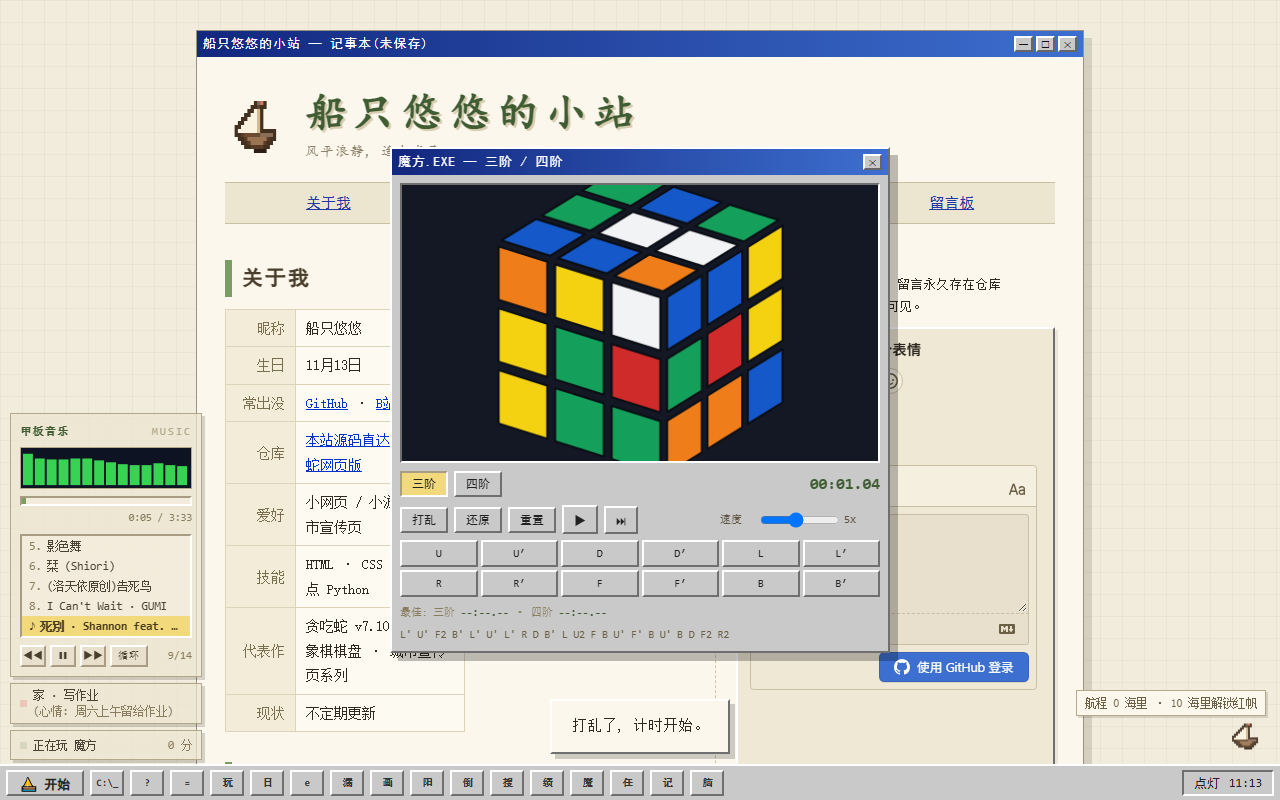
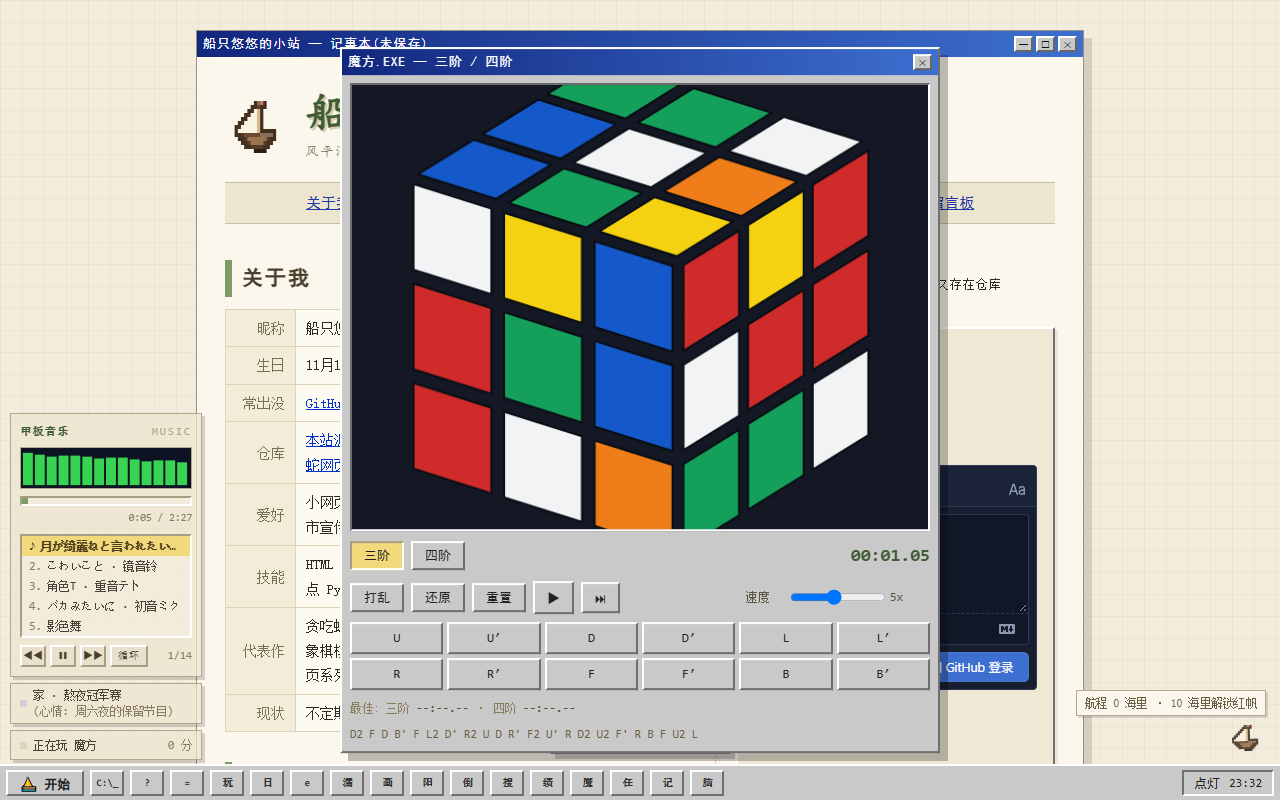
魔方窗口放大一圈: 600 宽、画布跟着长高, 按钮和成绩都看得清了

diff --git a/index.html b/index.html
@@ -1216,28 +1216,28 @@
   body.night .gd-foot{color:#55618a}
 
   /* ---------- 魔方.EXE: 三阶/四阶 建模还原 ---------- */
-  #cubeWin{position:fixed; left:50%; top:50%; transform:translate(-50%,-50%); z-index:260; width:min(500px,94vw);
+  #cubeWin{position:fixed; left:50%; top:50%; transform:translate(-50%,-50%); z-index:260; width:min(600px,94vw);
     display:none; background:#c9c9c9; border:2px solid; border-color:#fff #6f6f6f #6f6f6f #fff; box-shadow:8px 8px 0 rgba(0,0,0,.25)}
   #cubeWin.open{display:block}
   #cubeWin .titlebar{cursor:move}
   .cb-body{padding:8px}
-  #cbCanvas{display:block; width:100%; height:280px; background:#141824; border:2px solid; border-color:#6f6f6f #fff #fff #6f6f6f; cursor:grab}
+  #cbCanvas{display:block; width:100%; height:clamp(300px,56vh,460px); background:#141824; border:2px solid; border-color:#6f6f6f #fff #fff #6f6f6f; cursor:grab}
   #cbCanvas:active{cursor:grabbing}
-  .cb-row{display:flex; align-items:center; gap:6px; margin-top:7px; flex-wrap:wrap}
+  .cb-row{display:flex; align-items:center; gap:7px; margin-top:9px; flex-wrap:wrap}
   .cb-row button, .cb-mv button{background:#c9c9c9; border:2px solid; border-color:#fff #6f6f6f #6f6f6f #fff;
-    padding:4px 10px; font-family:"SimHei","黑体",sans-serif; font-size:12px; cursor:pointer; color:#222}
+    padding:5px 12px; font-family:"SimHei","黑体",sans-serif; font-size:13px; cursor:pointer; color:#222}
   .cb-row button:active, .cb-mv button:active{border-color:#6f6f6f #fff #fff #6f6f6f}
   .cb-row button.on{background:#f2d97c; border-color:#a89d84 #fff #fff #a89d84}
   .cb-row button:disabled{color:#999; cursor:default}
-  .cb-timer{font-family:Consolas,monospace; font-size:16px; color:#3f5c33; font-weight:bold; margin-left:auto; min-width:80px; text-align:right}
-  .cb-mv{display:grid; grid-template-columns:repeat(6,1fr); gap:3px; margin-top:6px}
-  .cb-mv button{padding:5px 2px; font-family:Consolas,monospace; font-size:11px; text-align:center}
-  .cb-best{font-size:11px; color:#8a7d5f; margin-top:6px}
+  .cb-timer{font-family:Consolas,monospace; font-size:18px; color:#3f5c33; font-weight:bold; margin-left:auto; min-width:92px; text-align:right}
+  .cb-mv{display:grid; grid-template-columns:repeat(6,1fr); gap:4px; margin-top:8px}
+  .cb-mv button{padding:7px 2px; font-family:Consolas,monospace; font-size:12.5px; text-align:center}
+  .cb-best{font-size:12px; color:#8a7d5f; margin-top:8px}
   .cb-best b{color:#3f5c33; font-family:Consolas,monospace}
   .cb-spd{display:flex; align-items:center; gap:4px; margin-left:auto}
-  .cb-spd input{width:80px}
-  .cb-spd span{font-size:11px; font-family:Consolas,monospace; color:#5c5340; min-width:36px}
-  .cb-hist{font-size:10.5px; font-family:Consolas,monospace; color:#6b5f45; margin-top:5px; max-height:36px; overflow-y:auto; word-break:break-all; line-height:1.5}
+  .cb-spd input{width:96px}
+  .cb-spd span{font-size:12px; font-family:Consolas,monospace; color:#5c5340; min-width:40px}
+  .cb-hist{font-size:11.5px; font-family:Consolas,monospace; color:#6b5f45; margin-top:7px; max-height:46px; overflow-y:auto; word-break:break-all; line-height:1.5}
   body.night #cubeWin{background:#1a2338; border-color:#3a4763}
   body.night .cb-row button, body.night .cb-mv button{background:#243050; border-color:#3a4763 #101828 #101828 #3a4763; color:#c8cfdd}
   body.night .cb-row button:active, body.night .cb-mv button:active{border-color:#101828 #3a4763 #3a4763 #101828}
@@ -2262,7 +2262,7 @@
     <button class="tb-btn" id="cubeClose" title="关闭">✕</button>
   </div>
   <div class="cb-body">
-    <canvas id="cbCanvas" width="460" height="280"></canvas>
+    <canvas id="cbCanvas" width="600" height="400"></canvas>
     <div class="cb-row">
       <button id="cbB3" class="on">三阶</button>
       <button id="cbB4">四阶</button>
